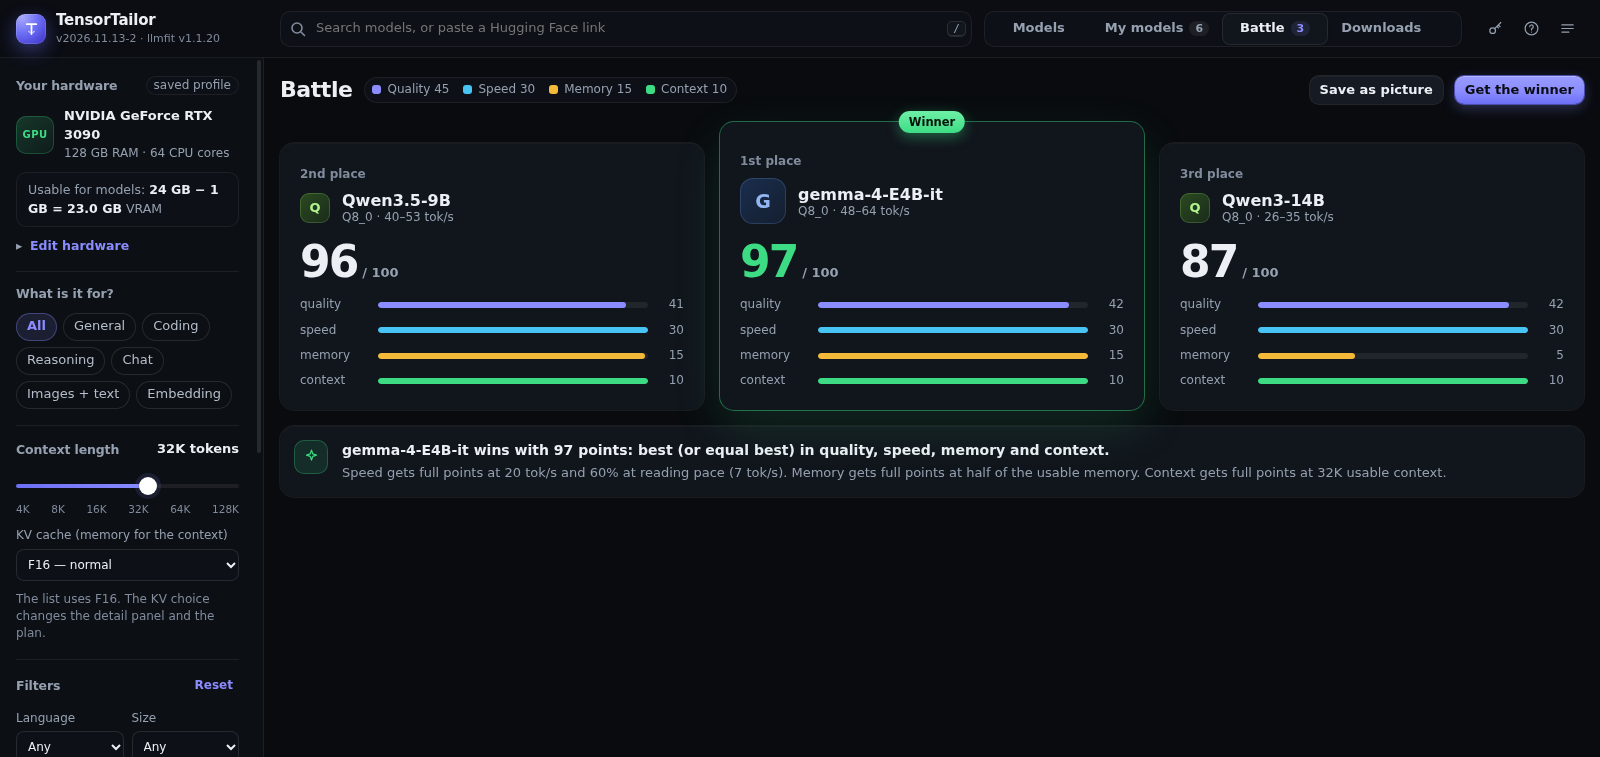
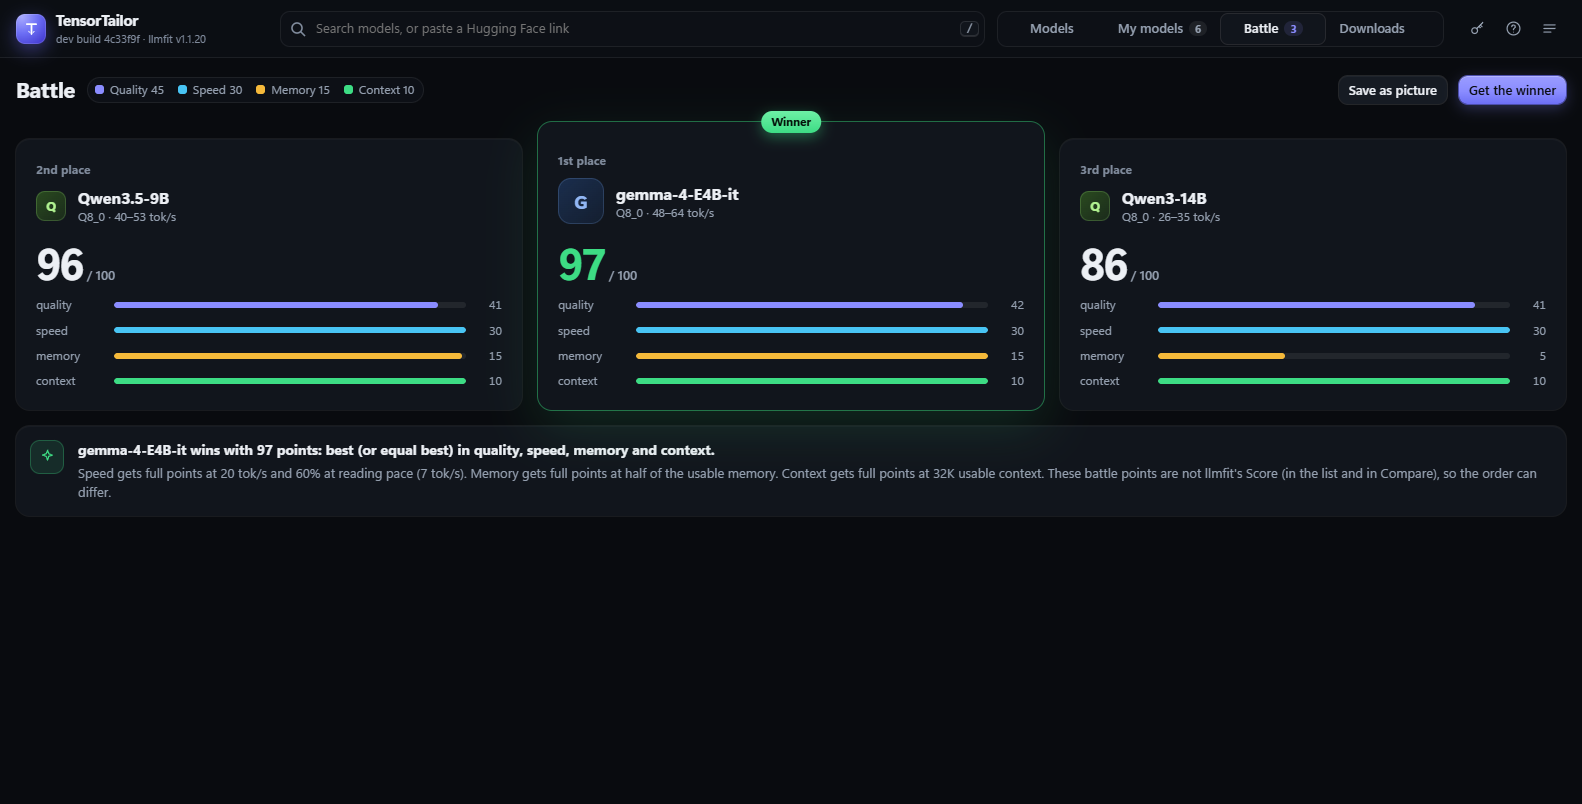
Implemented by Claude Opus 5.5: docs: README download text after K2; Battle pictures at full width
README "Download safely": the parts stay until the joined file passed its
read-back check; a damaged join is removed and joined again. The two Battle
pictures are retaken (Battle now uses the whole width, D4).

diff --git a/README.md b/README.md
@@ -21,9 +21,10 @@ as WebAssembly. Every build checks that the page gives exactly the same answers 
   The green label **best for this PC** marks the file that suits your PC best.
 - **Download safely.** Press **Download** next to a file. The file comes in parts, so after a crash you can
   resume. The SHA-256 of the parts is checked before the file gets its name, so a damaged download never shows up
-  in LM Studio; at the end TensorTailor reads the file back from disk and checks it again. If it differs,
-  **Download again** deletes the damaged file (after you confirm) and downloads it anew. Another file with the same
-  name is never overwritten.
+  in LM Studio; at the end TensorTailor reads the file back from disk and checks it again, and only then removes the
+  parts. If the joined file differs, it is removed and joined once more from the checked parts, so a damaged file
+  never stays in LM Studio's folder. For a file that was already there and differs, **Download again** deletes it
+  (after you confirm) and downloads it anew. Another file with the same name is never overwritten.
 - **Load it in LM Studio.** Tab **Run** shows the LM Studio load settings for your PC. **Load in LM Studio with
   these settings** loads the model for you. You see what will be sent first.
 - **Check your own models.** **My models** lists the models in LM Studio, how well they run here, the speed of
